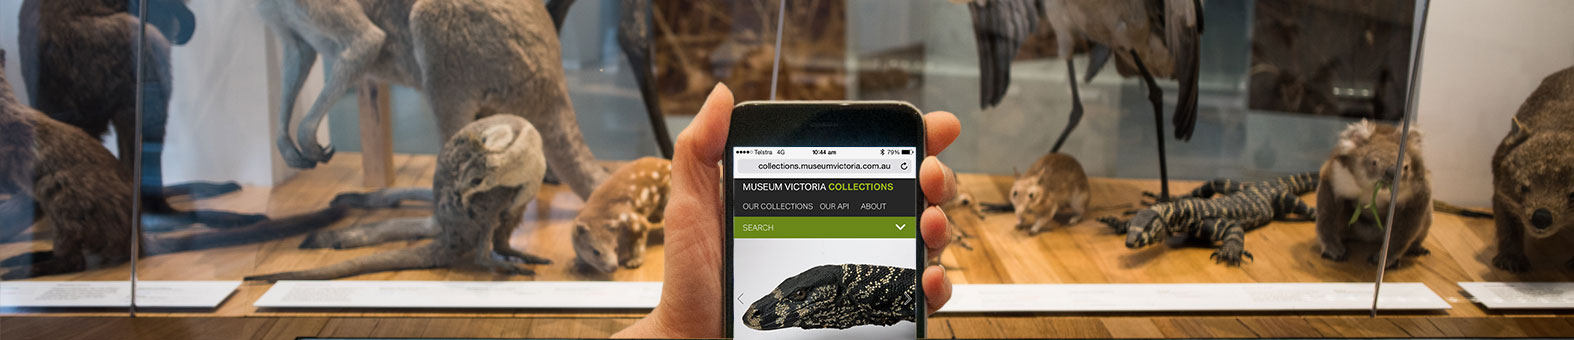
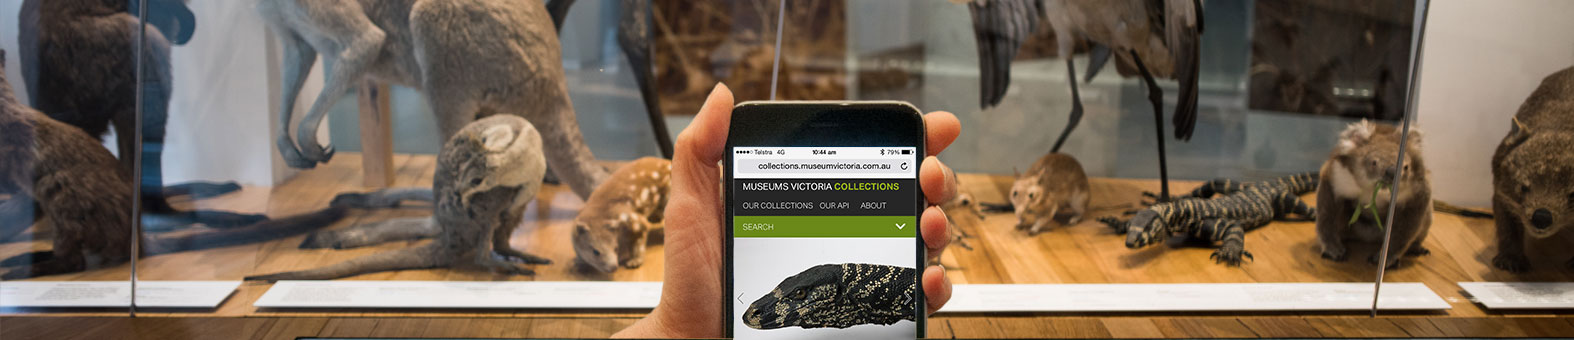
updated brand
- updated to the new branding

Changed region(s): [[0.467, 0.7647, 0.5915, 0.9706], [0.467, 0.5882, 0.5915, 0.7059], [0.467, 0.5294, 0.5915, 0.5588]]

diff --git a/src/CollectionsOnline.WebSite/Views/Error/500.html b/src/CollectionsOnline.WebSite/Views/Error/500.html
@@ -130,7 +130,7 @@
 </head>
 <body>
     <header role="banner">
-        <a class="brand">Museum Victoria <span>Collections</span></a>
+        <a class="brand">Museums Victoria <span>Collections</span></a>
     </header>        
     <div id="errordesc" class="container">
         <h1 class="errorcategory">500 - Internal server error</h1>
@@ -141,7 +141,7 @@
     <footer role="contentinfo">
         <div class="wrapper">
             <div class="logos">
[2 lines of base64/hex data omitted]
             </div>
             <div class="footerpromos">
                 <div class="footerpromo first">
@@ -174,7 +174,7 @@
         <div class="footerbase">
             <div class="wrapper">
                 <div class="venueinformation">
-                    <strong>Museum Victoria</strong> &nbsp;&nbsp;|&nbsp;&nbsp; GPO Box 666 Melbourne
+                    <strong>Museums Victoria</strong> &nbsp;&nbsp;|&nbsp;&nbsp; GPO Box 666 Melbourne
                     3001, Victoria, Australia &nbsp;&nbsp;|&nbsp;&nbsp; Bookings &amp; Enquiries 13
                     11 02
                     <ul>

diff --git a/src/CollectionsOnline.WebSite/content/js/app/media.js b/src/CollectionsOnline.WebSite/content/js/app/media.js
@@ -416,14 +416,14 @@ module.exports = {
 
       $('#mediaid', this.$reuseForm).val(media.Irn);
 
-      $('.statement', this.$reuseArea).html('Museum Victoria supports and encourages public access to our collection by offering image downloads for reuse.<br/><br/>Images marked as Public Domain have, to the best of Museum Victoria’s knowledge, no copyright or intellectual property rights that would restrict their free download and reuse. Images marked with a Creative Commons (CC) license may be downloaded and reused in accordance with the conditions of the relevant <a href="http://creativecommons.org.au/learn/licences/">CC license</a>. Please acknowledge Museum Victoria and cite the URL for the image so that others can also find it.');
+      $('.statement', this.$reuseArea).html('Museums Victoria supports and encourages public access to our collection by offering image downloads for reuse.<br/><br/>Images marked as Public Domain have, to the best of Museums Victoria’s knowledge, no copyright or intellectual property rights that would restrict their free download and reuse. Images marked with a Creative Commons (CC) license may be downloaded and reused in accordance with the conditions of the relevant <a href="http://creativecommons.org.au/learn/licences/">CC license</a>. Please acknowledge Museums Victoria and cite the URL for the image so that others can also find it.');
     } else {
       $('.permission', this.$reuseArea).html('No <span class="icon"><span class="icon-close2" aria-hidden="true"></span><span class="icon-label-hidden">Cross</span></span>');
       $('.attribution', this.$reuseArea).addClass('disabled');
       $('.attribution h4', this.$reuseArea).removeClass('disabled');
       $('.download', this.$reuseArea).html('<a class="request" href="http://museumvictoria.com.au/discoverycentre/ask-us-a-question/image-requests/"><span class="title">Request image</span></a>');
       $('.share', this.$reuseArea).addClass('disabled');
-      $('.statement', this.$reuseArea).html('Museum Victoria does not own the copyright in all the material on this website. In some cases copyright belongs to third parties and has been published here under a licence agreement: this does not authorise you to copy that material. You may be required to obtain permission from the copyright owner.<br/><br/>Some unpublished material may require permission for reuse even if it is very old. Orphan works, where the copyright owner is unknown, also require permission for reuse. Indigenous works may have additional legal and cultural issues. You may be required to seek cultural clearances from Aboriginal and Torres Strait Islander communities, families, individuals or organisations before you reproduce Aboriginal and Torres Strait Islander material.');
+      $('.statement', this.$reuseArea).html('Museums Victoria does not own the copyright in all the material on this website. In some cases copyright belongs to third parties and has been published here under a licence agreement: this does not authorise you to copy that material. You may be required to obtain permission from the copyright owner.<br/><br/>Some unpublished material may require permission for reuse even if it is very old. Orphan works, where the copyright owner is unknown, also require permission for reuse. Indigenous works may have additional legal and cultural issues. You may be required to seek cultural clearances from Aboriginal and Torres Strait Islander communities, families, individuals or organisations before you reproduce Aboriginal and Torres Strait Islander material.');
     }
     
     this.reuseCheck();

diff --git a/src/CollectionsOnline.WebSite/content/scss/styles.scss b/src/CollectionsOnline.WebSite/content/scss/styles.scss
@@ -3222,6 +3222,12 @@ footer {
         }
 
         @include gridle_hide("print");
+
+        .mv-logo {
+            fill: $colour-heading-inverted;
+            height:60px;
+            margin-right:60px;
+        }
     }
 
     & .footerpromos {
@@ -3416,7 +3422,7 @@ footer {
     }
 
     &.about {
-        background: url("/content/img/bg-about-hero.jpg") no-repeat center center;
+        background: url("/content/img/bg-about-hero.jpg?v2") no-repeat center center;
     }
 
     & img {

diff --git a/src/CollectionsOnline.WebSite/Factories/MetadataViewModelFactory.cs b/src/CollectionsOnline.WebSite/Factories/MetadataViewModelFactory.cs
@@ -213,8 +213,8 @@ namespace CollectionsOnline.WebSite.Factories
         {
             var metadata = new MetadataViewModel
             {
-                Description = "Explore the fascinating collections of Museum Victoria in Melbourne, Australia, featuring over 1.15 million records of zoology, geology, palaeontology, history, indigenous cultures and technology.",
-                Title = "Explore Museum Victoria's humanities and natural sciences collections",
+                Description = "Explore the fascinating collections of Museums Victoria in Melbourne, Australia, featuring over 1.15 million records of zoology, geology, palaeontology, history, indigenous cultures and technology.",
+                Title = "Explore Museums Victoria's humanities and natural sciences collections",
                 CanonicalUri = ConfigurationManager.AppSettings["CanonicalSiteBase"]
             };
 
@@ -225,8 +225,8 @@ namespace CollectionsOnline.WebSite.Factories
         {
             var metadata = new MetadataViewModel
             {
-                Description = "This site allows users to explore the natural sciences and humanities collections of Museum Victoria in Australia, featuring collections of zoology, geology, palaeontology, history, indigenous cultures and technology. Over 1.15 million records were presented at launch in 2015, accompanied by over 150,000 images.",
-                Title = "About Museum Victoria Collections",
+                Description = "This site allows users to explore the natural sciences and humanities collections of Museums Victoria in Australia, featuring collections of zoology, geology, palaeontology, history, indigenous cultures and technology. Over 1.15 million records were presented at launch in 2015, accompanied by over 150,000 images.",
+                Title = "About Museums Victoria Collections",
             };
 
             return metadata;
@@ -236,8 +236,8 @@ namespace CollectionsOnline.WebSite.Factories
         {
             var metadata = new MetadataViewModel
             {
-                Description = "Descriptions of the types of collections held at Museum Victoria in Melbourne, Australia.",
-                Title = "Descriptions of the collections held at Museum Victoria"
+                Description = "Descriptions of the types of collections held at Museums Victoria in Melbourne, Australia.",
+                Title = "Descriptions of the collections held at Museums Victoria"
             };
 
             return metadata;
@@ -247,8 +247,8 @@ namespace CollectionsOnline.WebSite.Factories
         {
             var metadata = new MetadataViewModel
             {
-                Description = "Use our public API to extract data from over 1.15 million humanities and natural sciences records that document Museum Victoria's collections.",
-                Title = "Developer tools for Museum Victoria Collections"
+                Description = "Use our public API to extract data from over 1.15 million humanities and natural sciences records that document Museums Victoria's collections.",
+                Title = "Developer tools for Museums Victoria Collections"
             };
 
             return metadata;
@@ -258,8 +258,8 @@ namespace CollectionsOnline.WebSite.Factories
         {
             var metadata = new MetadataViewModel
             {
-                Description = "Search a database of over 1.15 million records of zoology, geology, palaeontology, history, indigenous cultures and technology from Museum Victoria's collections.",
-                Title = "Search Museum Victoria's collections"
+                Description = "Search a database of over 1.15 million records of zoology, geology, palaeontology, history, indigenous cultures and technology from Museums Victoria's collections.",
+                Title = "Search Museums Victoria's collections"
             };
 
             return metadata;

diff --git a/src/CollectionsOnline.WebSite/Extensions/HtmlHelpersExtensions.cs b/src/CollectionsOnline.WebSite/Extensions/HtmlHelpersExtensions.cs
@@ -52,7 +52,7 @@ namespace CollectionsOnline.WebSite.Extensions
                 var article = document as Article;
 
                 sb.Append(BuildAuthorsCitation(article.Authors));
-                sb.Append(string.Format("({0}) {1} in Museum Victoria Collections {2}<br/>Accessed {3}", (!string.IsNullOrWhiteSpace(article.YearWritten)) ? article.YearWritten : article.DateModified.Year.ToString(), article.Title, currentUrl, DateTime.Now.ToString("dd MMMM yyyy")));
+                sb.Append(string.Format("({0}) {1} in Museums Victoria Collections {2}<br/>Accessed {3}", (!string.IsNullOrWhiteSpace(article.YearWritten)) ? article.YearWritten : article.DateModified.Year.ToString(), article.Title, currentUrl, DateTime.Now.ToString("dd MMMM yyyy")));
             }
             else if(document is Species)
             {
@@ -69,18 +69,18 @@ namespace CollectionsOnline.WebSite.Extensions
                         sb.Append(string.Format("{0} ", species.Taxonomy.CommonName));
                 }
 
-                sb.Append(string.Format("in Museum Victoria Collections {0}<br/>Accessed {1}", currentUrl, DateTime.Now.ToString("dd MMMM yyyy")));
+                sb.Append(string.Format("in Museums Victoria Collections {0}<br/>Accessed {1}", currentUrl, DateTime.Now.ToString("dd MMMM yyyy")));
             }
             else if(document is Item || document is Specimen)
             {
-                sb.Append(string.Format("Museum Victoria Collections {0}<br/>Accessed {1}", currentUrl, DateTime.Now.ToString("dd MMMM yyyy")));
+                sb.Append(string.Format("Museums Victoria Collections {0}<br/>Accessed {1}", currentUrl, DateTime.Now.ToString("dd MMMM yyyy")));
             }
             else if(document is Collection)
             {
                 var collection = document as Collection;
 
                 sb.Append(BuildAuthorsCitation(collection.Authors));
-                sb.Append(string.Format("({0}) {1} in Museum Victoria Collections {2}<br/>Accessed {3}", collection.DateModified.Year, collection.Title, currentUrl, DateTime.Now.ToString("dd MMMM yyyy")));
+                sb.Append(string.Format("({0}) {1} in Museums Victoria Collections {2}<br/>Accessed {3}", collection.DateModified.Year, collection.Title, currentUrl, DateTime.Now.ToString("dd MMMM yyyy")));
             }
 
             return new NonEncodedHtmlString(sb.ToString());

diff --git a/src/CollectionsOnline.WebSite/Modules/Api/SearchApiMetadataModule.cs b/src/CollectionsOnline.WebSite/Modules/Api/SearchApiMetadataModule.cs
@@ -150,7 +150,7 @@ namespace CollectionsOnline.WebSite.Modules.Api
                         {
                             Parameter = "displaylocation",
                             Necessity = "optional",
-                            Description = "The display location at Museum Victoria venues for the record, will only return item or specimen records. Parameter is considered a facet.",
+                            Description = "The display location at Museums Victoria venues for the record, will only return item or specimen records. Parameter is considered a facet.",
                             ExampleValues = new[] { "melbourne museum", "scienceworks" }
                         },
                         new ApiParameter
@@ -248,7 +248,7 @@ namespace CollectionsOnline.WebSite.Modules.Api
                         {
                             Parameter = "museumlocation",
                             Necessity = "optional",
-                            Description = "The <code>gallery</code> or <code>venue</code> a record may be on display at one of Museum Victoria's venues, will only return item and specimen records.",
+                            Description = "The <code>gallery</code> or <code>venue</code> a record may be on display at one of Museums Victoria's venues, will only return item and specimen records.",
                             ExampleValues = new[] { "immigration museum", "bunjilaka - first peoples" }
                         },
                         new ApiParameter

diff --git a/src/CollectionsOnline.WebSite/Models/MetadataViewModel.cs b/src/CollectionsOnline.WebSite/Models/MetadataViewModel.cs
@@ -15,7 +15,7 @@ namespace CollectionsOnline.WebSite.Models
         public MetadataViewModel()
         {
             // Defaults
-            Title = "Museum Victoria Collections";
+            Title = "Museums Victoria Collections";
 
             MetaProperties = new List<KeyValuePair<string, string>>();
         }
